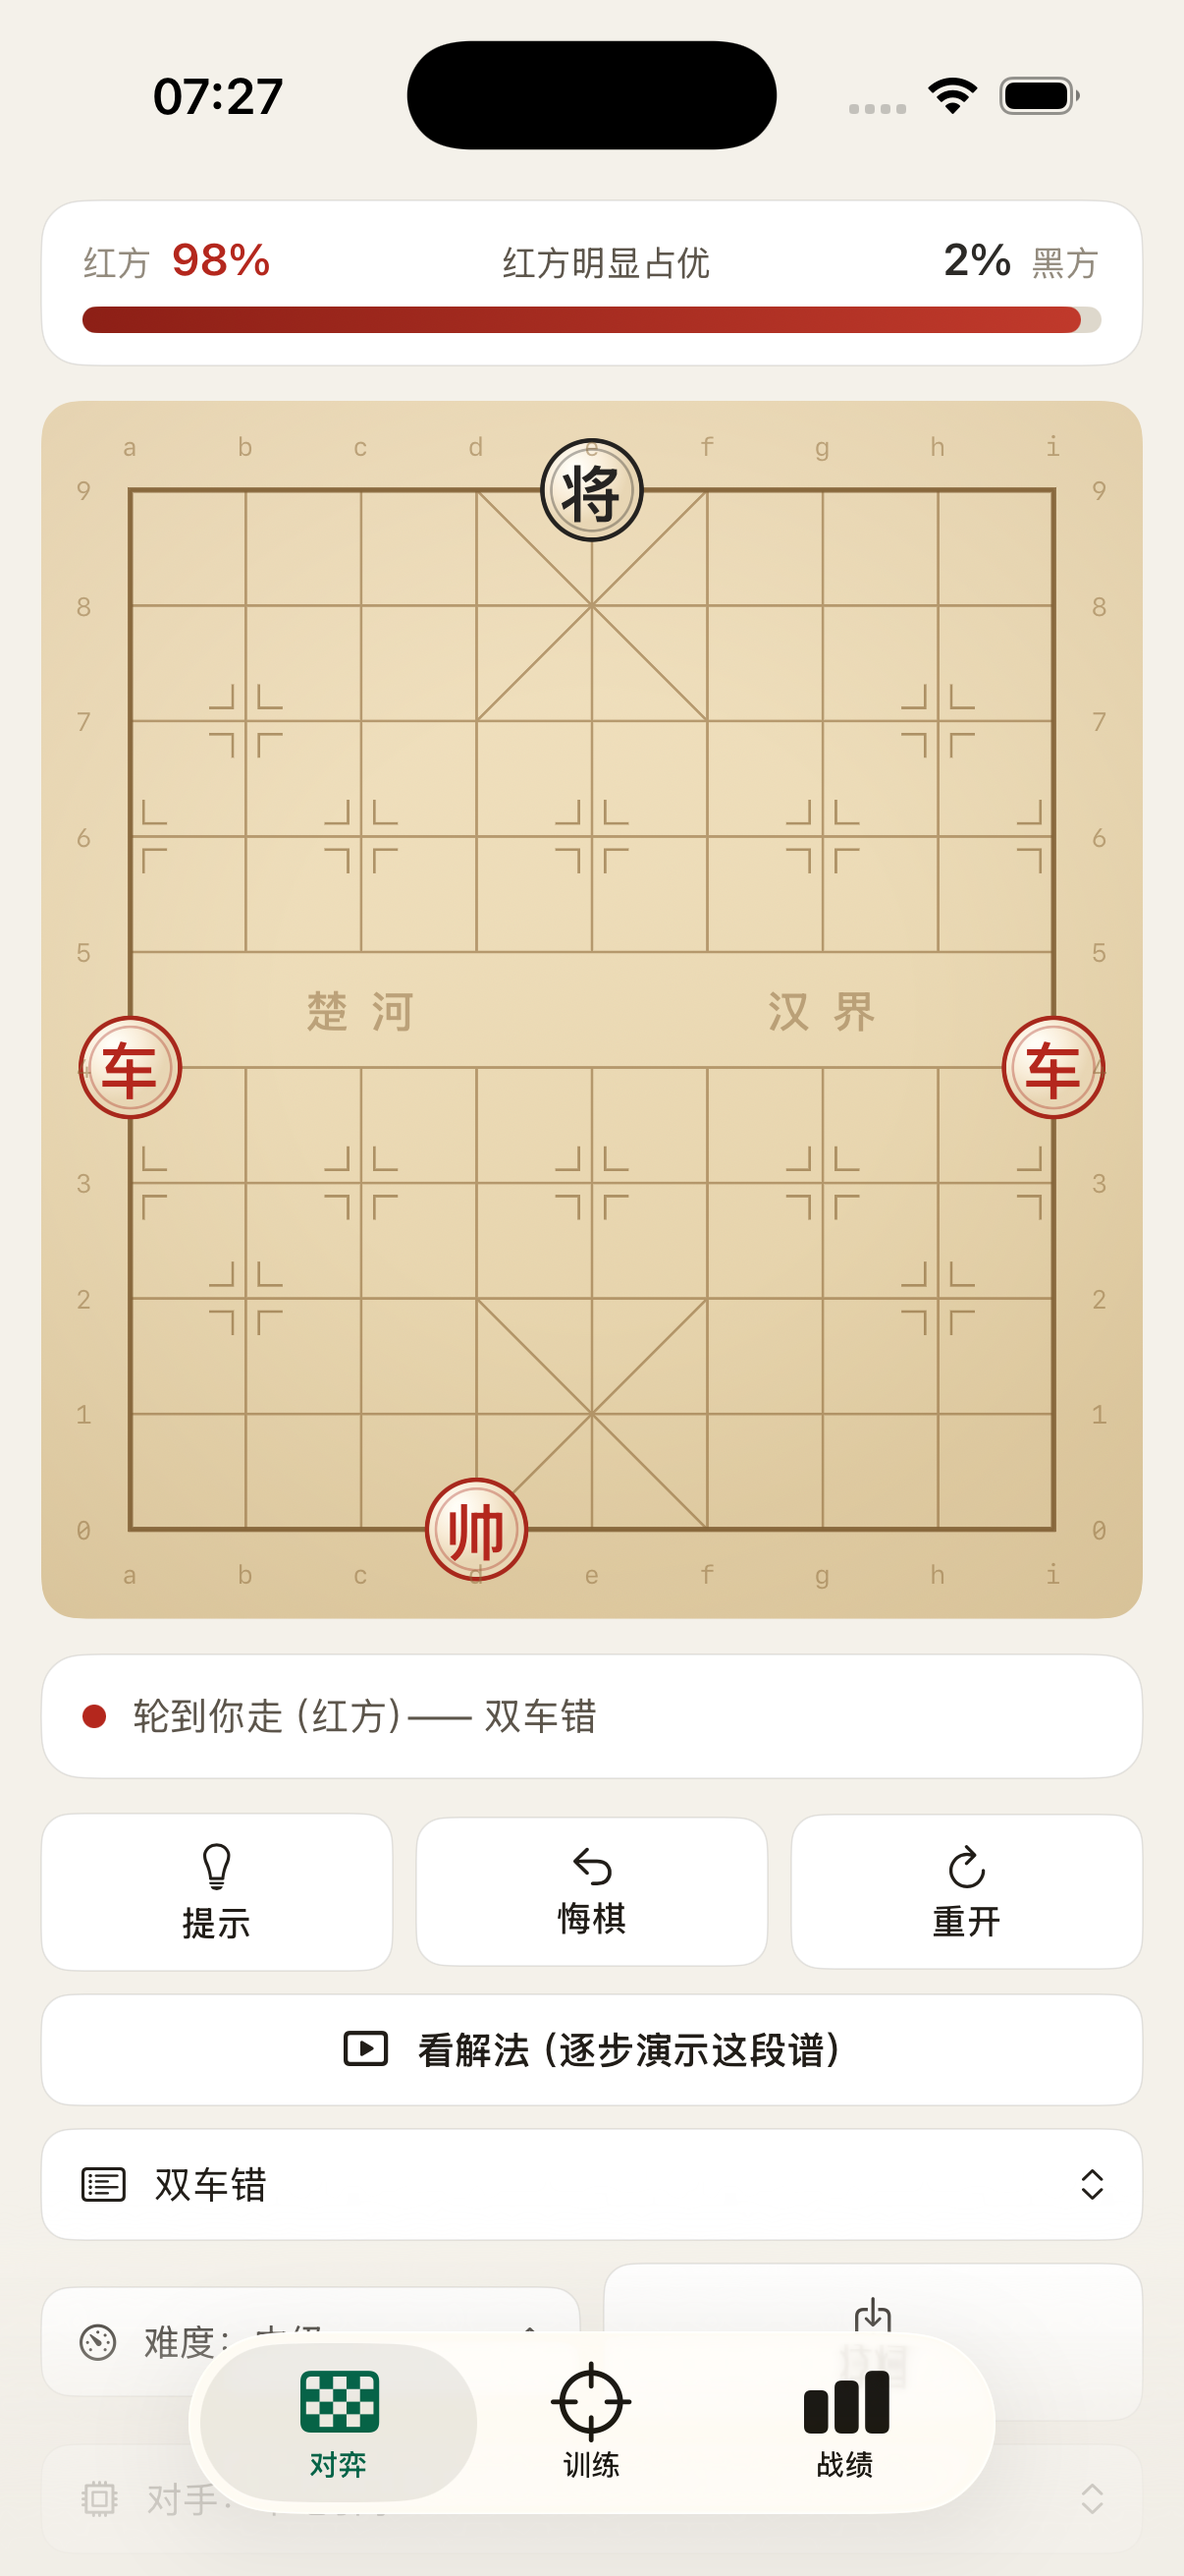
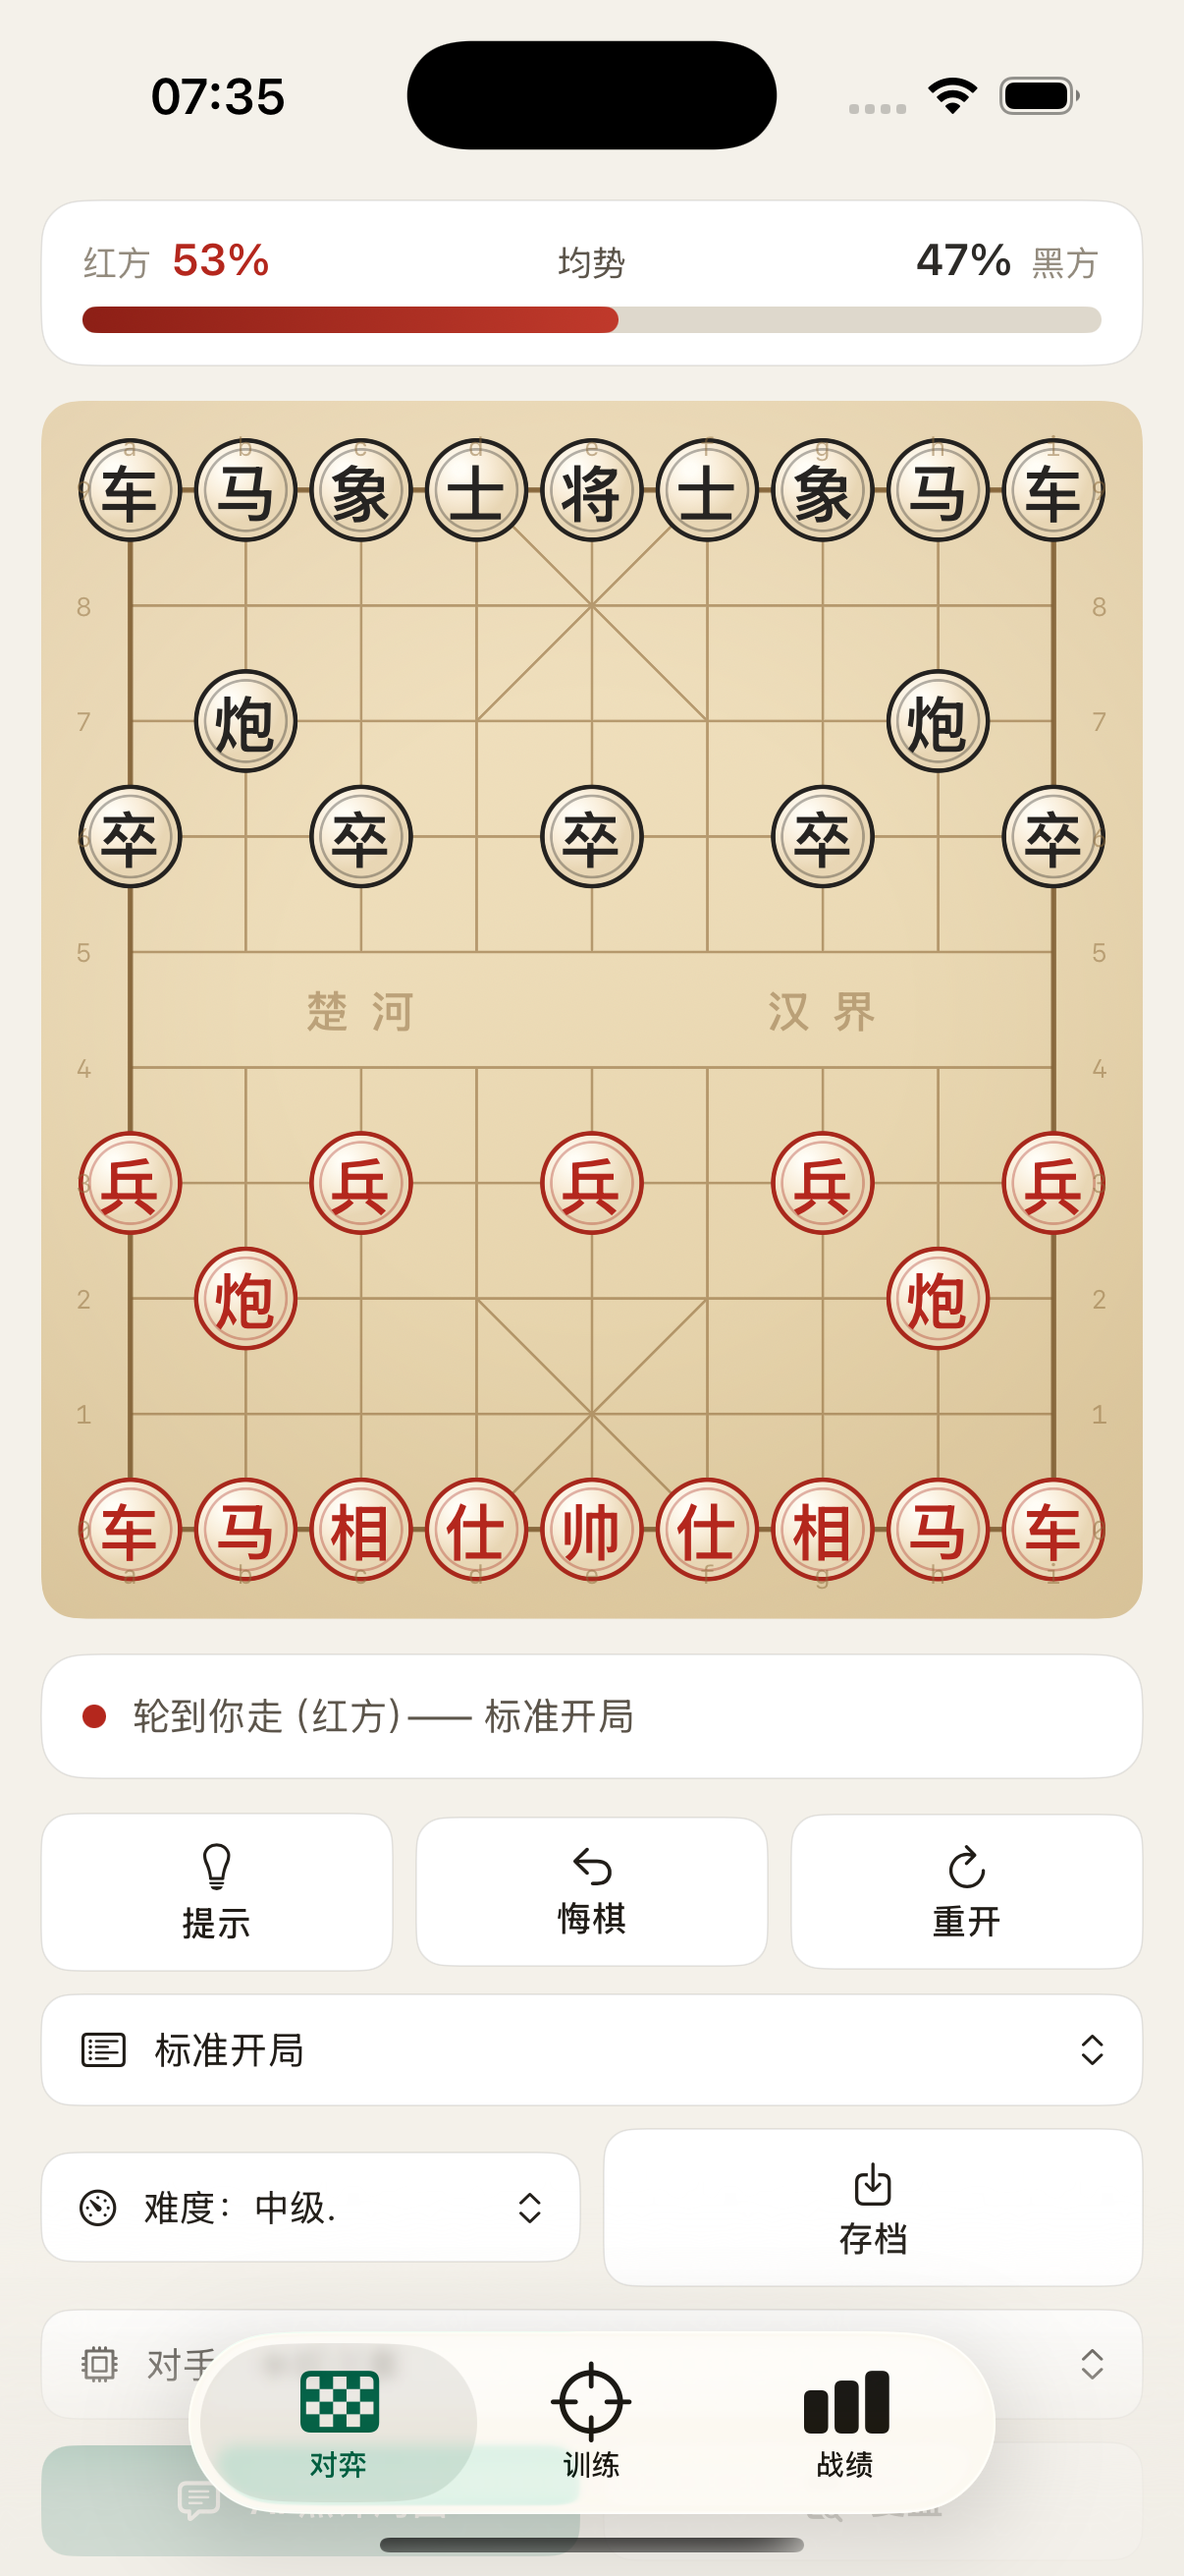
界面适配 iPad：左右分栏 + 自适应多列，并修掉一处棋盘留白
iPad 支持
- 对弈页改为左右分栏：棋盘在左、操作与棋谱记录在右，一屏之内不用来回滚动
- 训练页四个分组各用自适应 LazyVGrid：iPad 上自动排两列，手机仍是一列
- 战绩页统计卡按可用宽度自动决定列数
- iOS 18 上导航从顶部浮条换成左侧边栏（tabViewStyle(.sidebarAdaptable)）

判断条件是 horizontalSizeClass == .regular && verticalSizeClass == .regular。
只看宽度不行 —— iPhone 横屏的宽度同样算 regular，但高度很紧，那时候竖排更好用。

修复
- 棋盘下方留出大片空白、状态栏被顶到屏幕最底部：
  BoardTapOverlay 里的 GeometryReader 是贪婪的，会把整个 ZStack 撑到占满可用高度。
  给棋盘区加上 aspectRatio 约束后恢复正常。
  这个 bug 在 iPhone 单列布局下看不出来（ScrollView 里的高度提议不确定），
  是换成 iPad 分栏之后才暴露出来的。
- BoardView 里套的那层 GeometryReader 同样是多余的（Canvas 的闭包本来就能拿到
  可用尺寸），一并去掉

其他
- .gitignore 的 ios/build/ 放宽成 ios/build*/，覆盖 iPad 的构建目录
- README 补上 iPhone / iPad 的布局差异说明

diff --git a/ios/XiangqiCoach/Views/TrainView.swift b/ios/XiangqiCoach/Views/TrainView.swift
@@ -7,6 +7,9 @@ struct TrainView: View {
 
     private var library: XiangqiLibrary { game.library }
 
+    /// 列表在 iPad 上自动排成两列，iPhone 上仍然是一列
+    private let drillCols = [GridItem(.adaptive(minimum: 340), spacing: 10)]
+
     var body: some View {
         ScrollView {
             VStack(spacing: 10) {
@@ -20,41 +23,50 @@ struct TrainView: View {
                 if drills.isEmpty {
                     emptyCard("开始一局对弈后，这里会给出针对性建议")
                 } else {
-                    ForEach(drills) { d in
-                        DrillRow(badge: d.badge, title: d.title, subtitle: d.desc) {
-                            openScene(d.sceneId)
+                    LazyVGrid(columns: drillCols, spacing: 10) {
+                        ForEach(drills) { d in
+                            DrillRow(badge: d.badge, title: d.title, subtitle: d.desc) {
+                                openScene(d.sceneId)
+                            }
                         }
                     }
                 }
 
                 SectionHeader(title: "杀法练习",
                               trailing: "\(archive.solvedDrills.filter { $0.hasPrefix("mate:") }.count) / \(library.mates.count) 已通")
-                ForEach(library.mates) { m in
-                    let done = archive.solvedDrills.contains("mate:\(m.id)")
-                    DrillRow(badge: done ? "✓" : (m.tier == 1 ? "一" : "二"),
-                             title: m.name,
-                             subtitle: "\(m.tier == 1 ? "一步杀" : "两步杀") · \(m.idea.prefix(28))…") {
-                        openScene("mate:\(m.id)")
+                LazyVGrid(columns: drillCols, spacing: 10) {
+                    ForEach(library.mates) { m in
+                        let done = archive.solvedDrills.contains("mate:\(m.id)")
+                        DrillRow(badge: done ? "✓" : (m.tier == 1 ? "一" : "二"),
+                                 title: m.name,
+                                 subtitle: "\(m.tier == 1 ? "一步杀" : "两步杀") · \(m.idea.prefix(28))…") {
+                            openScene("mate:\(m.id)")
+                        }
                     }
                 }
 
                 SectionHeader(title: "开局库")
-                ForEach(library.openings) { o in
-                    DrillRow(badge: "局", title: o.name, subtitle: o.style) {
-                        openScene("opening:\(o.id)")
+                LazyVGrid(columns: drillCols, spacing: 10) {
+                    ForEach(library.openings) { o in
+                        DrillRow(badge: "局", title: o.name, subtitle: o.style) {
+                            openScene("opening:\(o.id)")
+                        }
                     }
                 }
 
                 SectionHeader(title: "实用残局")
-                ForEach(library.studies) { s in
-                    DrillRow(badge: "残", title: s.name, subtitle: "红先取胜") {
-                        openScene("study:\(s.id)")
+                LazyVGrid(columns: drillCols, spacing: 10) {
+                    ForEach(library.studies) { s in
+                        DrillRow(badge: "残", title: s.name, subtitle: "红先取胜") {
+                            openScene("study:\(s.id)")
+                        }
                     }
                 }
             }
             .padding(.horizontal, 14)
             .padding(.top, 6)
             .padding(.bottom, 96)
+            .frame(maxWidth: 1000)   // iPad 上别把列表拉成一条超长的横条
         }
         .background(Palette.paper.ignoresSafeArea())
         .navigationTitle("训练")
@@ -89,7 +101,8 @@ struct StatsView: View {
             VStack(spacing: 10) {
                 let rep = archive.computeAbilities(mateTotal: game.library.mates.count)
 
-                LazyVGrid(columns: Array(repeating: GridItem(.flexible(), spacing: 8), count: 4), spacing: 8) {
+                // 手机上排成 4 列；iPad 上按可用宽度自动多排几个
+                LazyVGrid(columns: [GridItem(.adaptive(minimum: 86, maximum: 210), spacing: 8)], spacing: 8) {
                     StatCard(value: "\(rep.games)", label: "总对局")
                     StatCard(value: rep.finished > 0 ? "\(rep.winRate)%" : "—", label: "胜率",
                              tone: rep.finished > 0 && rep.winRate >= 50 ? "good" : "bad")
@@ -163,6 +176,7 @@ struct StatsView: View {
             .padding(.horizontal, 14)
             .padding(.top, 6)
             .padding(.bottom, 96)
+            .frame(maxWidth: 1000)   // iPad 上别把内容拉成一条超长的横条
         }
         .background(Palette.paper.ignoresSafeArea())
         .navigationTitle("战绩")

diff --git a/ios/XiangqiCoach/Views/PlayView.swift b/ios/XiangqiCoach/Views/PlayView.swift
@@ -4,6 +4,11 @@ struct PlayView: View {
     @ObservedObject var game: GameState
     @Binding var showSettings: Bool
 
+    /// 横竖两个方向都宽松（iPad 全屏、iPad 分屏的大部分）才走左右分栏。
+    /// iPhone 横屏宽度也是 regular，但高度很紧 —— 那时候竖排反而更好用。
+    @Environment(\.horizontalSizeClass) private var hSize
+    @Environment(\.verticalSizeClass) private var vSize
+
     @State private var candidates: [CandidateMove] = []
     @State private var showCoach = false
     @State private var panelTitle = "教练"
@@ -16,18 +21,13 @@ struct PlayView: View {
 
     private var scenes: [XQScene] { SceneCatalog.all(game.library) }
 
+    /// 宽高都宽松（iPad 全屏、iPad 分屏的大部分）时走左右分栏：
+    /// 棋盘占左边，操作与棋谱记录占右边 —— 不用来回滚动，棋盘也能吃满高度。
+    private var isWide: Bool { hSize == .regular && vSize == .regular }
+
     var body: some View {
-        ScrollView {
-            VStack(spacing: 12) {
-                evalBar
-                boardArea
-                statusBar
-                controls
-                moveList
-            }
-            .padding(.horizontal, 14)
-            .padding(.top, 6)
-            .padding(.bottom, 96)   // 给底部标签栏留出空间，否则最后一行控件会被压住
+        Group {
+            if isWide { wideLayout } else { compactLayout }
         }
         .background(Palette.paper.ignoresSafeArea())
         .navigationTitle("")
@@ -61,6 +61,48 @@ struct PlayView: View {
         }
         .sheet(isPresented: $showCoach) { coachSheet }
         .sheet(isPresented: $showNotation) { NotationSheet(game: game) }
+    }
+
+    // MARK: - 布局
+
+    /// 窄屏（iPhone 竖屏 / 横屏）：竖着排，靠滚动
+    private var compactLayout: some View {
+        ScrollView {
+            VStack(spacing: 12) {
+                evalBar
+                boardArea
+                statusBar
+                controls
+                moveList
+            }
+            .padding(.horizontal, 14)
+            .padding(.top, 6)
+            .padding(.bottom, 96)   // 给底部标签栏留出空间，否则最后一行控件会被压住
+        }
+    }
+
+    /// 宽屏（iPad）：左右分栏，棋盘在左、控制与记录在右
+    private var wideLayout: some View {
+        HStack(alignment: .top, spacing: 20) {
+            VStack(spacing: 10) {
+                evalBar
+                boardArea
+                statusBar
+            }
+            .frame(maxWidth: 640)
+
+            ScrollView {
+                VStack(spacing: 8) {
+                    controls
+                    moveList
+                }
+                .padding(.bottom, 32)
+            }
+            // 给个区间而不是固定宽度：竖屏 iPad 宽度紧张时让出空间给棋盘
+            .frame(minWidth: 330, idealWidth: 380, maxWidth: 420)
+        }
+        .padding(.horizontal, 22)
+        .padding(.top, 8)
     }
 
     // MARK: - 胜率条
@@ -120,6 +162,9 @@ struct PlayView: View {
                     .transition(.opacity.combined(with: .move(edge: .top)))
             }
         }
+        // 必须给整个棋盘区定死比例：点击层里的 GeometryReader 是贪婪的，
+        // 不约束的话它会把 ZStack 撑满可用高度，状态栏就被顶到屏幕最底下了。
+        .aspectRatio(BoardMetrics.aspect, contentMode: .fit)
         .animation(.easeOut(duration: 0.2), value: game.toast)
     }
 

diff --git a/ios/XiangqiCoach/XiangqiCoachApp.swift b/ios/XiangqiCoach/XiangqiCoachApp.swift
@@ -31,6 +31,24 @@ struct RootView: View {
     @State private var showSettings = false
 
     var body: some View {
+        Group {
+            if #available(iOS 18.0, *) {
+                // iPad 上它会自动变成左侧边栏，更贴合 iPad 的使用习惯；
+                // iPhone 上仍然是底部标签栏
+                tabs.tabViewStyle(.sidebarAdaptable)
+            } else {
+                tabs
+            }
+        }
+        .background(Palette.paper)
+        .sheet(isPresented: $showSettings) {
+            SettingsView(config: AIConfig.shared, archive: archive)
+        }
+        .onAppear { applyLaunchOverrides() }
+    }
+
+    /// 三个页面。单独抽出来是为了按系统版本套不同样式
+    private var tabs: some View {
         TabView(selection: $tab) {
             PlayView(game: game, showSettings: $showSettings)
                 .tabItem { Label("对弈", systemImage: "checkerboard.rectangle") }
@@ -44,11 +62,6 @@ struct RootView: View {
                 .tabItem { Label("战绩", systemImage: "chart.bar.fill") }
                 .tag(2)
         }
-        .background(Palette.paper)
-        .sheet(isPresented: $showSettings) {
-            SettingsView(config: AIConfig.shared, archive: archive)
-        }
-        .onAppear { applyLaunchOverrides() }
     }
 
     /// 自动化截图用的启动钩子：

diff --git a/ios/XiangqiCoach/Views/BoardView.swift b/ios/XiangqiCoach/Views/BoardView.swift
@@ -34,13 +34,14 @@ struct BoardView: View {
     @ObservedObject var game: GameState
 
     var body: some View {
-        GeometryReader { geo in
-            let scale = geo.size.width / BoardMetrics.logicalW
-            Canvas { ctx, _ in
-                ctx.scaleBy(x: scale, y: scale)
-                draw(&ctx)
-            }
-            .frame(width: geo.size.width, height: geo.size.width / BoardMetrics.aspect)
+        // 直接让 Canvas 按可用空间取比例缩放。
+        // 原来套了一层 GeometryReader —— 它一定会填满给它的全部空间，
+        // 于是棋盘按宽度缩放后，下方留出一大片空白，把状态栏顶到屏幕最底部。
+        // Canvas 的闭包本身就能拿到可用尺寸，不需要 GeometryReader。
+        Canvas { ctx, size in
+            let scale = size.width / BoardMetrics.logicalW
+            ctx.scaleBy(x: scale, y: scale)
+            draw(&ctx)
         }
         .aspectRatio(BoardMetrics.aspect, contentMode: .fit)
     }

diff --git a/README.md b/README.md
@@ -93,6 +93,17 @@ xcodebuild -project XiangqiCoach.xcodeproj -scheme XiangqiCoach \
 > 工程文件由 `project.yml` 生成，**不纳入版本管理**，这样多人协作不会因为
 > `project.pbxproj` 冲突。
 
+**iPhone 与 iPad 都支持**，按可用空间自动切换布局：
+
+| 设备 | 布局 |
+|---|---|
+| iPhone（竖屏 / 横屏） | 单列：棋盘在上，操作与记录在下的习惯布局 |
+| iPad（含分屏占据大部分时） | 左右分栏：棋盘在左、操作与棋谱记录在右，不用来回滚动；iOS 18 上导航还会自动变成左侧边栏 |
+| 训练 / 战绩页 | 列表按可用宽度自动分列，手机一列、iPad 两列 |
+
+判断条件用的是 `horizontalSizeClass == .regular && verticalSizeClass == .regular` ——
+只看宽度是不够的：**iPhone 横屏宽度同样是 `.regular`，但高度很紧**，那时候竖排反而更好用。
+
 ---
 
 ## 配置大模型
